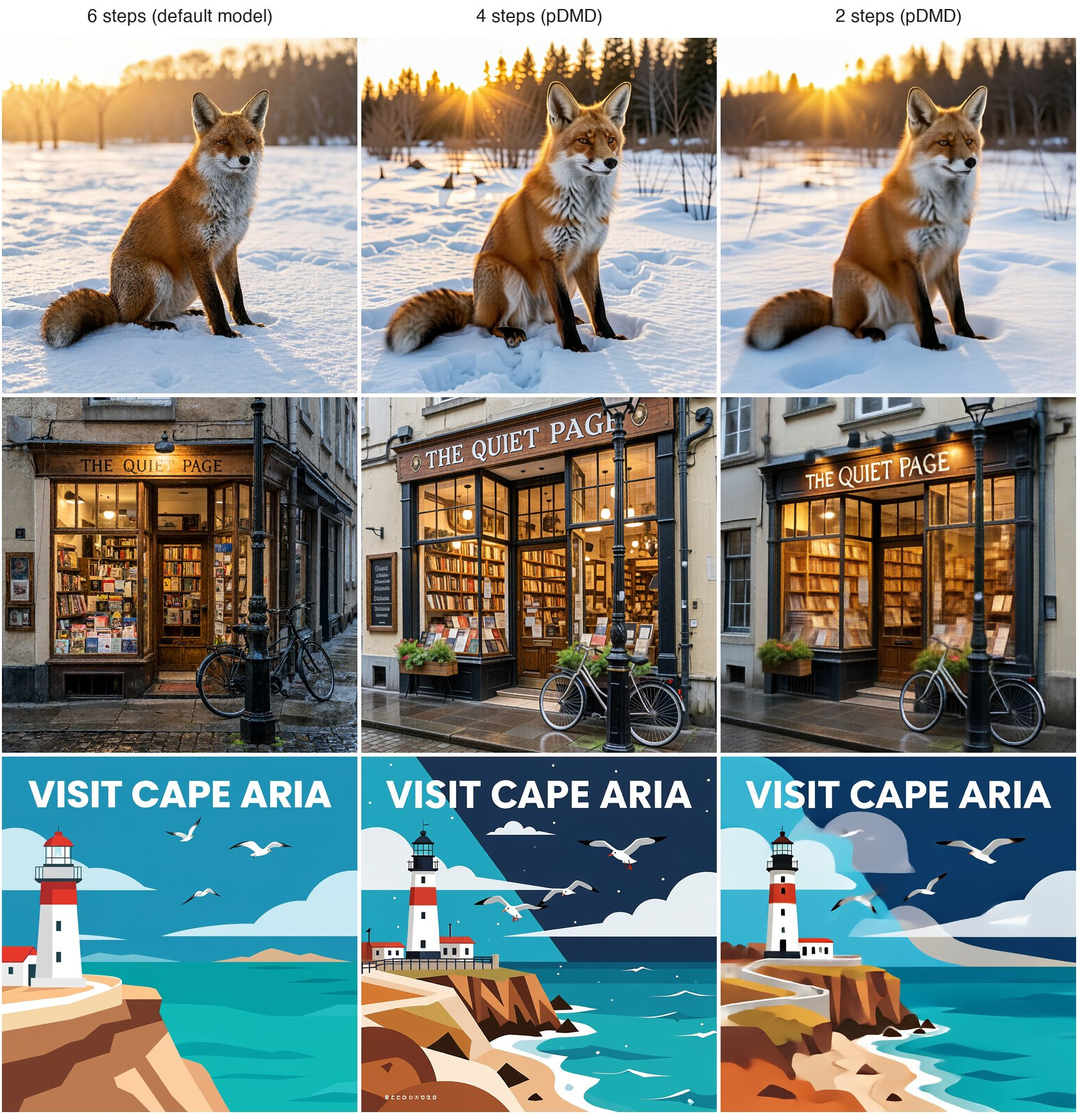
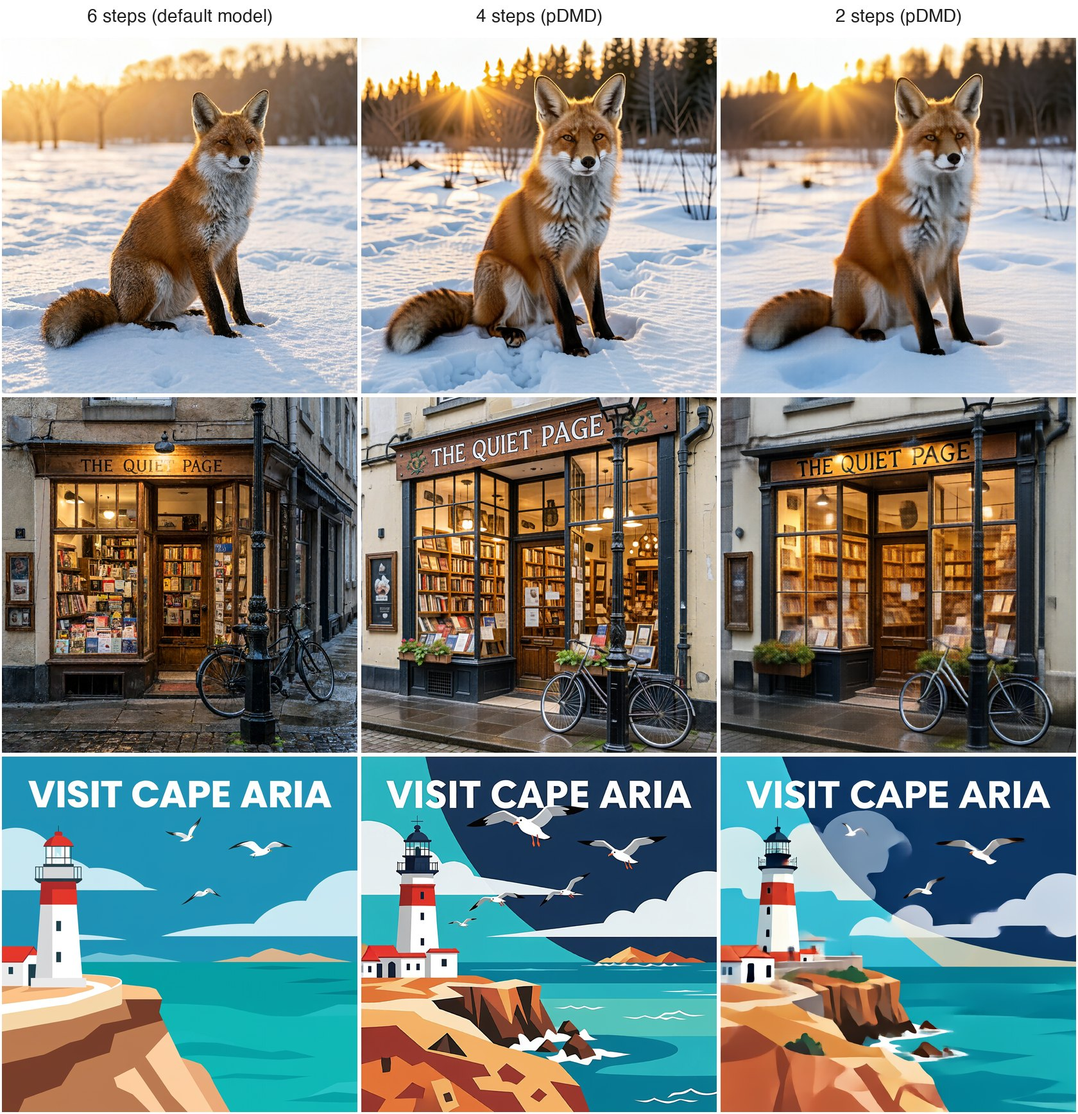
Key the cached text rows by transformer file: switching steps reused the other file's refiner output
A pipeline that ran 6 steps and then 2 for the same prompt fed the few-step transformer
the six-step file's token-refiner rows (max pixel difference 245 against a fresh
pipeline; 0 now). tests/test_minimax_steps_switch.py checks it. The comparison figure
is regenerated with the fix.

diff --git a/tests/test_minimax_steps_switch.py b/tests/test_minimax_steps_switch.py
@@ -1,0 +1,25 @@
+"""One MiniMax-H3-Image pipeline that switches between its transformer files must give each the same image as a
+fresh pipeline: the cached text rows come from a file's own token refiner (pDMD's adapter changes it), so they must
+not cross over. Needs a converted model with both files (h3metal convert ... and convert ... --pdmd).
+
+    python tests/test_minimax_steps_switch.py [MODEL_DIR]
+"""
+import os
+import sys
+
+import numpy as np
+
+sys.path.insert(0, os.path.join(os.path.dirname(__file__), ".."))
+from h3metal.pipeline import Pipeline  # noqa: E402
+
+model = sys.argv[1] if len(sys.argv) > 1 else os.path.expanduser("~/.h3metal/model")
+prompt = "A red fox sitting in fresh snow at sunrise, photorealistic, soft golden light."
+size = dict(width=1024, height=1024, seed=42, min_area=1024 * 1024)
+pipe = Pipeline(model, log=lambda *a: None)
+pipe.generate(prompt, steps=6, **size)
+switched, _ = pipe.generate(prompt, steps=2, **size)
+fresh, _ = Pipeline(model, log=lambda *a: None).generate(prompt, steps=2, **size)
+diff = int(np.abs(switched.astype(int) - fresh).max())
+print(f"2 steps after 6 in one pipeline against a fresh pipeline: largest pixel difference {diff}")
+assert diff == 0
+print("ok")

diff --git a/h3metal/pipeline.py b/h3metal/pipeline.py
@@ -153,7 +153,9 @@ class Pipeline:
         n_steps = len(sigmas) - 1
         t = time.time()
         T = emb.shape[0]
-        key = (emb.shape, float(emb[0, :8].sum()), float(emb[-1, :8].sum()), refs is None)
+        # The rows depend on the transformer file too: its token refiner and text projection (pDMD's adapter
+        # changes the refiner), so a switch between files must not reuse them.
+        key = (self._dit_path, emb.shape, float(emb[0, :8].sum()), float(emb[-1, :8].sum()), refs is None)
         if getattr(self, "_rows_key", None) != key or text_types is not None:
             text = g.empty((ditm.ops.pad_rows(T, 128), emb.shape[1]), "bf16")
             text.numpy()[:T] = bf16_bits(emb)
